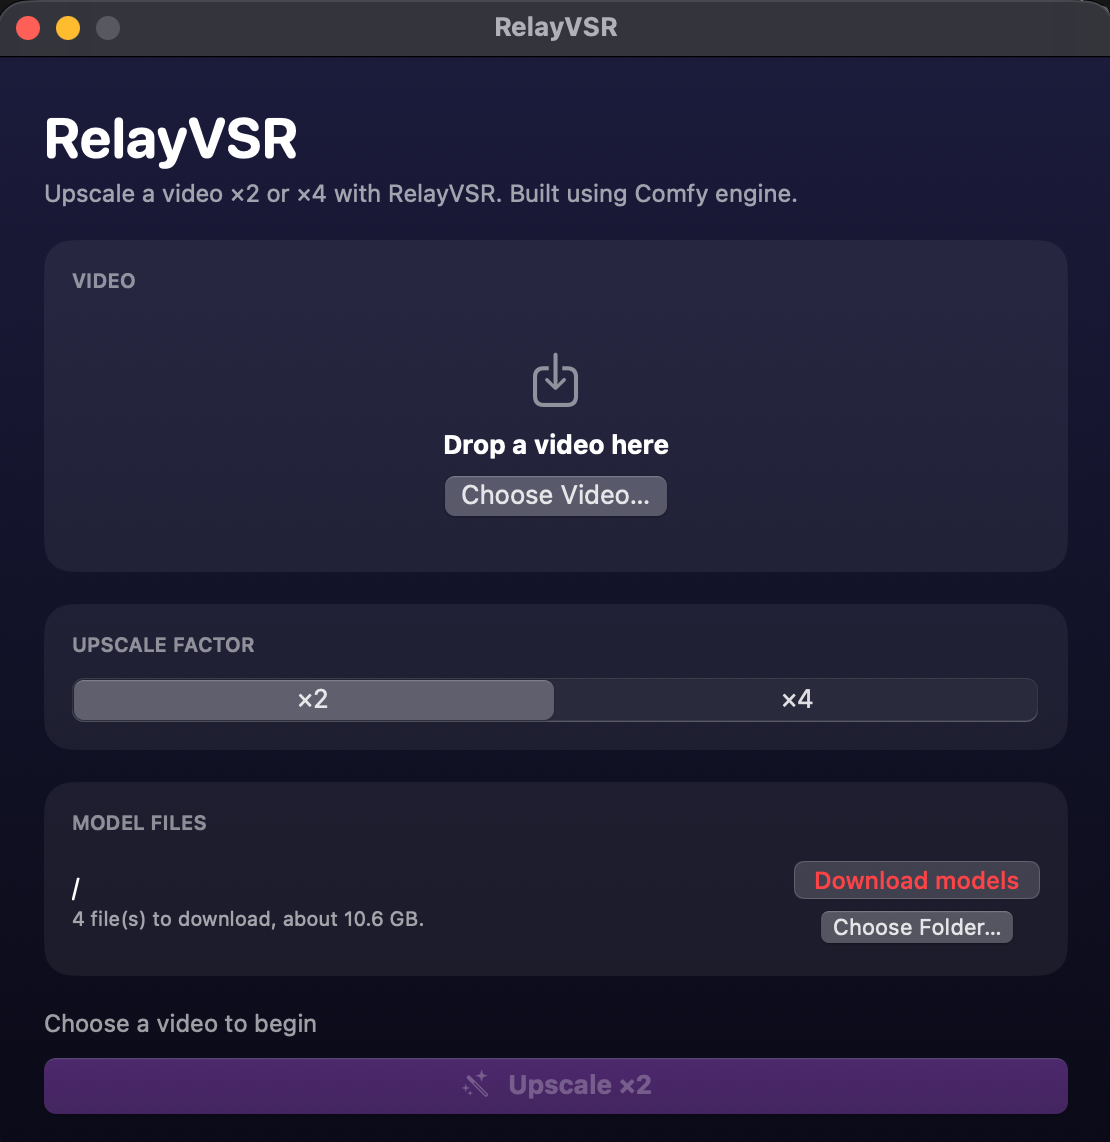
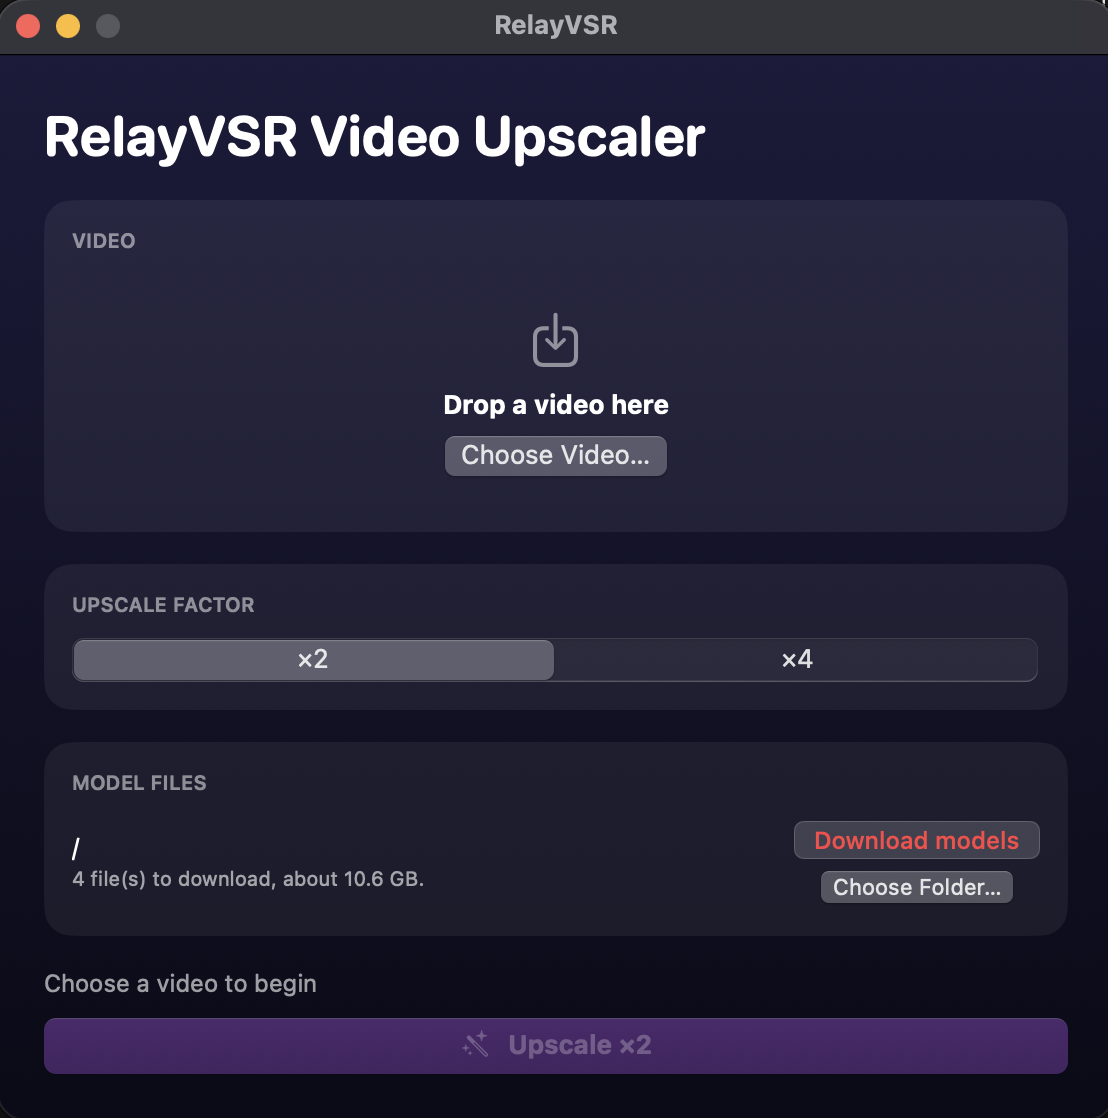
1.0.1: label upscaled video as BT.709
ComfyUI's Create Video labels SDR output with the sRGB transfer function,
which Apple's players show about 8 levels darker than the BT.709 original,
so upscales looked darker and pinker. A small bundled engine add-on now
writes the BT.709 label instead; pixel values are unchanged.

The build also drops linker search paths into the build Mac's Swift
toolchains from the app binary.

diff --git a/Sources/RelayVSR/ContentView.swift b/Sources/RelayVSR/ContentView.swift
@@ -35,13 +35,8 @@ struct ContentView: View {
     // MARK: - Sections
 
     private var header: some View {
-        VStack(alignment: .leading, spacing: 4) {
-            Text("RelayVSR")
-                .font(.system(size: 28, weight: .bold, design: .rounded))
-            Text("Upscale a video ×2 or ×4 with RelayVSR. Built using Comfy engine.")
-                .font(.callout)
-                .foregroundStyle(.white.opacity(0.6))
-        }
+        Text("RelayVSR Video Upscaler")
+            .font(.system(size: 28, weight: .bold, design: .rounded))
     }
 
     private var videoCard: some View {

diff --git a/EngineAddons/relayvsr_video_tags/__init__.py b/EngineAddons/relayvsr_video_tags/__init__.py
@@ -1,0 +1,18 @@
+"""Tags RelayVSR's SDR output as BT.709 video.
+
+ComfyUI's Create Video node labels SDR video with the sRGB transfer function. The upscaled
+frames, like the video they come from, are ordinary BT.709 video values, and Apple's players
+(QuickTime, Photos, Safari) show a file labelled sRGB about 8 levels darker than the same file
+labelled BT.709. That made the upscale look darker and pinker than the original next to it.
+
+This changes only the label written to the file; the pixel values are unchanged. Reading video
+is unaffected: ComfyUI already treats BT.709 files as "sRGB".
+"""
+
+from av.video.reformatter import ColorTrc
+from comfy_api.latest._input_impl import video_types
+
+video_types.VIDEO_COLOR_TRANSFERS["sRGB"] = ColorTrc.BT709
+
+NODE_CLASS_MAPPINGS = {}
+NODE_DISPLAY_NAME_MAPPINGS = {}

diff --git a/README.md b/README.md
@@ -48,7 +48,10 @@ it; delete that folder to stage it again. The engine is:
 - [ComfyUI](https://github.com/comfyanonymous/ComfyUI) at a pinned commit of its main
   branch (the RelayVSR nodes are not in a ComfyUI release yet);
 - the [ComfyUI-AppleSilicon-int8-Fast](https://github.com/Illuminus7/ComfyUI-AppleSilicon-int8-Fast)
-  node at a pinned commit (release 1.2.0).
+  node at a pinned commit (release 1.2.0);
+- the app's own small add-ons in `EngineAddons/`, copied in when the app is built. Today
+  that is one: it labels the upscaled video as BT.709, like the original, instead of
+  ComfyUI's sRGB label, which Apple's players show noticeably darker.
 
 The pinned versions are at the top of `scripts/build_engine.sh`. To build from local
 copies instead, set `COMFY_SRC` to a ComfyUI folder (and `INT8_SRC` to the int8-Fast
